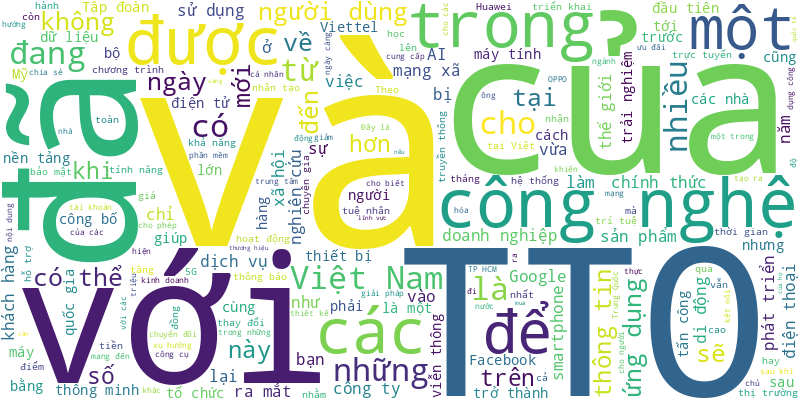
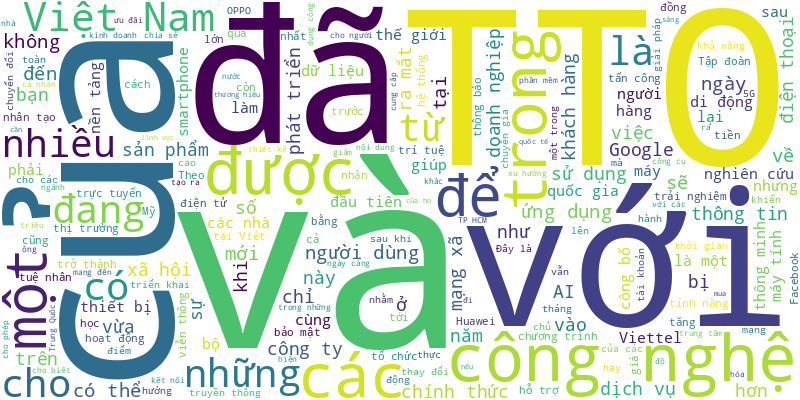
🍀 = 20%

diff --git a/README.md b/README.md
@@ -1,6 +1,19 @@
 # Tuoi Tre RSS 
 
 ## Giáo dục 
+- Để khắc phục tình trạng sinh viên sư phạm không được hưởng hoặc chậm được hưởng chính sách hỗ trợ, nghị định 60 đã điều chỉnh quy định phương thức hỗ trợ kinh phí cho sinh viên sư phạm.
+- Ngày 6-3, UBND quận 1, TP.HCM đã tổ chức lễ công bố và trao quyết định bổ nhiệm cán bộ giữ chức vụ trưởng Phòng Giáo dục và Đào tạo.
+- Ngày 6-3, chủ tịch UBND huyện Mường Lát đã chỉ đạo các phòng chức năng, ban giám hiệu nhà trường rà soát để giải quyết chế độ phụ cấp độc hại cho viên chức thư viện - thiết bị, thiết bị - thí nghiệm.
+- Để đảm bảo an ninh, tạo điều kiện tham gia trong dịp Lễ hội cà phê Buôn Ma Thuột lần thứ 9 năm 2025, học sinh các cấp trên địa bàn TP Buôn Ma Thuột (Đắk Lắk) sẽ được nghỉ học ngày 10-3.
+- Dù đã có biển cấm đỗ xe nhưng nhiều ô tô vẫn đỗ tràn ra lòng đường, vỉa hè, trước cổng trường học gây ách tắc giao thông.
+- Bộ trưởng Bộ Giáo dục Mỹ Linda McMahon cho biết cần có sự chấp thuận của Quốc hội để đóng cửa cơ quan này.
+- Quy mô đào tạo chênh lệch không nhiều nhưng số lượng trường đại học tại Đồng bằng sông Hồng nhiều gần gấp đôi vùng Đông Nam Bộ.
+- Nhiều trường THPT có "đầu vào" không cao nhưng vẫn có học sinh đoạt giải tại kỳ thi học sinh giỏi ở TP.HCM năm học 2024-2025.
+- Theo kế hoạch đến năm 2030, TP.HCM sẽ đào tạo tối thiểu 9.000 nhân lực có trình độ từ đại học trở lên phục vụ cho ngành bán dẫn.
+- Trưởng đại diện UNICEF tại Việt Nam cho biết quyết định miễn toàn bộ học phí trường công lập là một bước tiến quan trọng.
+- Lãnh đạo Cục Quản lý chất lượng (Bộ Giáo dục và Đào tạo) nói rằng đề thi môn ngữ văn của kỳ thi tốt nghiệp THPT năm nay sẽ là dạng đề mở.
+- Hai ngày thứ bảy, chủ nhật cuối tuần này sẽ vô cùng sôi động với hai chương trình, ngày hội tư vấn tuyển sinh - hướng nghiệp.
+- Quy đổi điểm liệu có giúp các trường đại học tuyển đúng người cho đúng ngành, hay là mang tính hành chính tập trung nhiều hơn?
 - Trường ĐH Sư phạm kỹ thuật TP.HCM vừa tiếp nhận các tài sản công từ Trường cao đẳng Bình Phước để chuẩn bị thành lập phân hiệu tại địa phương này.
 - Bộ Giáo dục và Đào tạo vừa chính thức công bố thông tin nhân sự được điều động, bổ nhiệm sau khi bộ sắp xếp, tinh gọn từ 23 còn 18 đơn vị.
 - PGS.TS Nguyễn Thu Thủy, vụ trưởng Vụ Giáo dục đại học vừa được bộ trưởng Bộ Giáo dục và Đào tạo điều động, bổ nhiệm giữ chức cục trưởng Cục Hợp tác quốc tế.
@@ -989,21 +1002,75 @@
 - Từ năm 2025, học sinh có giấy chứng nhận nghề sẽ không được cộng 1 - 2 điểm khuyến khích khi xét tốt nghiệp THPT như những năm trước đây.
 - Hội đồng kỷ luật của huyện Minh Hóa đã đưa ra hình thức kỷ luật khiển trách với bà Đinh Thị Bùi Chung, hiệu trưởng Trường mầm non số 1 thị trấn Quy Đạt vì nhiều sai phạm về tài chính cũng như hành vi giật micro, chỉ mặt hội trưởng phụ huynh.
 - Quy định mới trong dự thảo thông tư tuyển sinh đại học 2025 sẽ giúp các trường đỡ sợ tuyển vượt chỉ tiêu.
-- Sinh viên của Trường đại học Mở TP.HCM đã đến UBND phường Cô Giang (quận 1, TP.HCM) học tập thực tế về quản lý công.
-- Trường phổ thông Thực hành Sư phạm thuộc Đại học Đồng Nai đang thiếu tiền trả lương cho giáo viên. Hoạt động giảng dạy của trường cầm chừng vì thiếu kinh phí.
-- Đó là khẳng định của ông Nguyễn Văn Hiếu, giám đốc Sở Giáo dục và Đào tạo TP.HCM, khi trao đổi với Tuổi Trẻ về định hướng phát triển mô hình trường tiên tiến, hội nhập quốc tế (sau đây gọi tắt là trường tiên tiến).
-- Những năm qua Hà Nội triển khai nhiều giải pháp nâng cao chất lượng nguồn nhân lực, trong đó có quyết tâm thực hiện ‘dạy thật, học thật, thi thật, nhân tài thật’.
-- Chiều 5-11, UBND huyện Tam Đường, tỉnh Lai Châu tổ chức họp báo đột xuất cung cấp thông tin về vụ việc trẻ nhập viện nghi ngộ độc do ăn nhầm thuốc diệt chuột tại Trường mầm non xã Giang Ma.
-- Hơn 300 phụ huynh ở Đồng Nai bị xử phạt hành chính do giao xe cho học sinh chưa đủ tuổi điều khiển.
-- Bắc Ninh thí điểm tổ chức dạy học 5 ngày trong tuần và nghỉ ngày thứ bảy, chủ nhật tại 4 trường trong tỉnh.
-- Xét về số lượng giáo sư, phó giáo sư được xét năm 2024, Trường đại học Cần Thơ đứng đầu cơ sở giáo dục, Hà Nội dẫn đầu theo tỉnh thành.
-- Phụ huynh nên cân nhắc khi giao xe máy cho con vì đó là sự an toàn, là tính mạng của con em mình.
-- Công an huyện Bố Trạch (Quảng Bình) đã vào cuộc xác minh những thông tin liên quan đến vụ hiệu trưởng kê khai giá bạt chống nắng cao gấp 3 giá khảo sát của phụ huynh tại Trường tiểu học Lý Trạch.
-- Sáng 5-11, trước tình hình mưa lớn gây ngập nhiều tuyến đường, nhiều trường ở Đà Nẵng thông báo cho học sinh nghỉ học. Một số bếp ăn bán trú của trường không kịp trở tay.
-- Hầu hết các trường tiên tiến, hội nhập quốc tế (gọi tắt là trường tiên tiến) đã và đang là những trường "hot" ở TP.HCM.
-- Chính phủ Công đảng Anh vừa công bố quyết định tăng học phí đại học tại Anh lần đầu tiên sau 8 năm, trong bối cảnh các trường đại học đang đối mặt với tình trạng thâm hụt tài chính nghiêm trọng.
 ![Edu](Edu.png)
 ## Thời Sự 
+- Các nhà đầu tư, tổ chức tài chính và đại diện các nhà máy điện gió, điện mặt trời đã gửi thư kiến nghị đến các cơ quan chức năng bày tỏ mong muốn không hồi tố, tính lại giá điện đối với các dự án đã vận hành thương mại.
+- Theo công an, Nguyễn Văn Tuấn (tức Tuấn "trắng", quê ở Hải Phòng, chủ trạm dừng nghỉ Ngọc Anh ở Phú Thọ) có nhiều hành vi vi phạm pháp luật gây bức xúc cho người dân.
+- Tổng Bí thư Tô Lâm và Phu nhân sẽ thăm cấp nhà nước Indonesia và thăm chính thức Singapore từ ngày 9-3, mở ra kỳ vọng về cột mốc mới trong quan hệ Việt Nam với hai nước này.
+- Tin tức đáng chú ý: Thủ tướng chỉ đạo 'nóng' về nhà ở xã hội; Yêu cầu cơ sở y tế tuân thủ quy định khám sức khỏe lái xe; TP.HCM vẫn thiếu nhà vệ sinh công cộng...
+- Nhóm bị cáo thừa nhận đã bàn nhau 'phá' cuộc đấu giá để giữ đất, làm một vụ 'chấn động địa cầu'.
+- Hôm nay 7-3, không khí lạnh tác động toàn bộ thời tiết Bắc Bộ khiến nhiệt độ giảm sâu kèm mưa, Nam Bộ ngày nắng.
+- Phó thủ tướng Trần Hồng Hà cho biết Festival nghề muối Việt Nam - Bạc Liêu năm 2025 là dấu mốc để Chính phủ, các bộ, ngành, địa phương và bà con diêm dân cùng nhau nỗ lực đưa hạt muối vươn xa trong thời gian tới.
+- Ngày 6-3, Cục An toàn thực phẩm (Bộ Y tế) có văn bản đề nghị các đơn vị xử lý nghiêm hoạt động quảng cáo vi phạm quy định của sản phẩm kẹo rau củ Kera.
+- Trong khuôn khổ chuyến thăm chính thức Việt Nam, ngày 6-3, Thủ tướng Kyrgyzstan Adylbek Kasymaliev đã có cuộc gặp với Tổng Bí thư Tô Lâm, Chủ tịch nước Lương Cường và Chủ tịch Quốc hội Trần Thanh Mẫn.
+- Giải trình, Trung tâm Công nghệ thông tin và Truyền thông nói không nhận được thông báo về việc đoàn lãnh đạo sở đến chúc mừng 8-3.
+- Nghị định quy định chi tiết thực hiện nghị quyết về cơ chế, chính sách đặc thù để tháo gỡ khó khăn, vướng mắc các dự án, đất đai trong kết luận thanh tra, kiểm tra, bản án tại TP.HCM, Đà Nẵng, Khánh Hòa dự kiến có hiệu lực từ ngày 1-4-2025.
+- Pháp hy vọng đẩy mạnh hợp tác quốc phòng với Việt Nam, để tương xứng với tình hữu nghị và quan hệ Đối tác chiến lược toàn diện giữa hai nước.
+- Sau thời gian chờ đợi, người dân TP.HCM sắp được đi trên những tuyến đường mới như đường nối Trần Quốc Hoàn - Cộng Hòa, đường Dương Quảng Hàm và các nhánh cầu thuộc vành đai 3 (sắp thông xe).
+- Dự án chế biến, sản xuất alumin tại Bình Phước có diện tích gần 300ha, với tổng vốn đầu tư 22.780 tỉ đồng.
+- Nhân viên nhà xe Hạnh Luyến tại Quảng Bình bị quay clip xô xát với khách nước ngoài, nguyên nhân được cho là tranh cãi chuyện dừng xe cho khách đi vệ sinh.
+- Đà Nẵng dừng xây dựng Trung tâm Chính trị - Hành chính quận Hải Châu, với vốn đầu tư hơn 420 tỉ đồng.
+- Liên tiếp triệt phá 3 chuyên án lớn trong thời gian ngắn vừa qua, mới đây Công an tỉnh Đắk Lắk đã nhận thư khen của Phó thủ tướng Bùi Thanh Sơn.
+- Nhiều xe dù vẫn đón, trả khách tấp nập giữa các tuyến đường nội và ngoại thành TP.HCM.
+- Là tuyến huyết mạch nối nút giao An Phú với trung tâm TP.HCM, nhưng gần 10 năm qua đường Lương Định Của vẫn chưa xong.
+- Để đảm bảo an ninh, tạo điều kiện tham gia trong dịp Lễ hội cà phê Buôn Ma Thuột lần thứ 9 năm 2025, học sinh các cấp trên địa bàn TP Buôn Ma Thuột (Đắk Lắk) sẽ được nghỉ học ngày 10-3.
+- Đắk Lắk đã thống nhất tạm dừng xây dựng 72 trụ sở làm việc chưa thực hiện để sắp xếp, tinh gọn bộ máy.
+- Công an tỉnh Quảng Nam thông báo 17 địa điểm thu nhận hồ sơ cấp căn cước và tài khoản định danh điện tử mức 2.
+- Theo quy định tại nghị định 45/2025 của Chính phủ có hiệu lực từ 1-3, có 4 sở được tổ chức đặc thù ở các tỉnh, thành.
+- Công an TP.HCM đã phân cấp nhiều nhóm thủ tục về công an cấp xã, tăng thêm nhiều điểm giải quyết thủ tục cho người dân.
+- Giữa ban ngày, một nhóm 5 người mang theo hung khí (trong đó có một vật nghi súng) lao vào nhà dân đánh người.
+- Chủ tịch Hà Nội Trần Sỹ Thanh chỉ đạo như vậy trong công điện gửi lãnh đạo các quận, huyện, thị xã và các sở ngành về việc thực hiện các nhiệm vụ, giải pháp theo kết luận 127 của Bộ Chính trị.
+- Công ty Cấp nước Đồng Nai cho rằng việc khai thác vượt lưu lượng chỉ rơi vào một số ngày cao điểm nắng nóng.
+- Chiều 6-3, Chủ tịch UBND TP.HCM Nguyễn Văn Được chủ trì hội nghị gặp gỡ cộng đồng doanh nghiệp trên địa bàn TP.HCM.
+- Ngày 6-3, Hà Tĩnh đồng loạt triển khai, tổ chức các hoạt động chuyển đổi số hưởng ứng phong trào "Bình dân học vụ số" trên phạm vi toàn tỉnh.
+- Nhiều nhà mua hàng quốc tế đã đổ về Hội chợ xuất khẩu đồ gỗ và nội thất - Hawa Expo 2025 đang diễn ra tại TP.HCM.
+- Nhân kỷ niệm 50 năm Ngày Giải phóng miền Nam, thống nhất đất nước, TP.HCM sẽ bắn pháo hoa tại 7 điểm chính.
+- Công an An Giang bắt giữ thêm một đồng phạm và tiếp tục truy xét các đồng phạm, đàn em của đại ca giang hồ mang nhiều tiền án Hiếu ‘Xì po’.
+- Phó chủ tịch Quốc hội Lê Minh Hoan đã viết thư "tâm tình" với các nghệ nhân có nghề làm muối, bà con làm muối.
+- Hòa giải giữa chủ nhân tờ vé số trúng giải đặc biệt 2 tỉ đồng bị rách một góc và công ty xổ số ở Huế đã diễn ra mà không đạt được sự thống nhất.
+- Ngày 6-3, Phó thủ tướng Trần Hồng Hà kiểm tra tiến độ các dự án đường cao tốc tại khu vực Đồng bằng sông Cửu Long.
+- Trưởng Ban Nội chính Trung ương Phan Đình Trạc đề nghị sớm xây dựng hành lang pháp lý cho các vấn đề mới, phi truyền thống.
+- Việc cắm mốc, giao ranh của dự án cao tốc TP.HCM - Mộc Bài được thực hiện đồng loạt tại 21 xã, phường thuộc 2 địa phương TP.HCM và tỉnh Tây Ninh.
+- Lãnh đạo Sở Khoa học - Công nghệ Quảng Trị có văn bản gửi quyền chủ tịch UBND tỉnh đề nghị dừng bổ nhiệm cấp dưới vì vi phạm giờ làm việc.
+- Tại hội đàm ngày 6-3, hai Thủ tướng Việt Nam và Kyrgyzstan khẳng định sự coi trọng của mỗi bên dành cho quan hệ song phương.
+- Trên nhiều đường, hẻm ở TP.HCM, tình trạng người dân đặt chậu cây xanh, vật dụng chiếm dụng lòng đường, vỉa hè diễn ra phổ biến.
+- Hồ Hoàn Kiếm là khu vực rất đặc biệt, là một di sản văn hóa của thủ đô và của cả nước vì chứa đựng ý nghĩa lịch sử.
+- Lãnh đạo UBND tỉnh Khánh Hòa khẳng định việc đề xuất điều chỉnh quy hoạch tỉnh không ảnh hưởng đến định hướng sáp nhập đơn vị cấp tỉnh.
+- Ngày 6-3, Phòng cảnh sát giao thông Công an Đà Nẵng hướng dẫn cụ thể đến người dân khi thực hiện thủ tục cấp đổi, cấp lại giấy phép lái xe.
+- Sau phản ánh việc nhiều người đi xe máy bị té ngã tại đường ray xe lửa ở phường Dĩ An (Bình Dương), địa phương đã cắm biển cảnh báo.
+- Hà Giang đề xuất Thủ tướng xem xét cho chủ trương đầu tư dự án cao tốc Tuyên Quang - Hà Giang (giai đoạn 2) đến cửa khẩu quốc tế Thanh Thủy.
+- Học sinh lớp 2 tại điểm trường Trà Dơn (Quảng Nam) qua đời do bị sốt cao nhiều ngày nhưng gia đình chỉ cúng bái, không chuyển trạm y tế.
+- Công an TP.HCM đã triệt phá và giải cứu thành công một người Trung Quốc bị đồng hương bắt cóc tống tiền.
+- UBND tỉnh Phú Yên đã có văn bản yêu cầu các địa phương rà soát, tạm dừng việc triển khai các công trình, dự án.
+- Các bác sĩ Bệnh viện Lê Văn Việt (Thủ Đức) vừa cấp cứu kịp thời cho một sản phụ 32 tuổi, chuyển dạ sớm, đẻ rơi con tại nhà.
+- Xe tải chở dứa chạy trên quốc lộ 61C bất ngờ mất lái tông vào tiệm sửa xe ven đường, 6 người thoát chết trong gang tấc.
+- Lái xe máy chạy tốc độ cao, người chạy xe đã lao vào tường rào UBND huyện Thọ Xuân (Thanh Hóa), 2 thanh niên chết tại chỗ, một người bị thương.
+- Sáng 6-3, Bộ Tư pháp phối hợp Học viện Chính trị quốc gia Hồ Chí Minh tổ chức hội thảo khoa học cấp quốc gia.
+- TP.HCM sẽ tổ chức hội nghị quán triệt trong hệ thống chính trị về việc sắp xếp, tổ chức bộ máy, trong đó có cả việc tổ chức lại bộ máy cấp huyện, xã.
+- Bị "réo" tên trên mạng, giám đốc doanh nghiệp ở huyện Ea H'leo (Đắk Lắk), người lấy 2 con cá lăng do xe khách đánh rơi trên đường, đã đền tiền.
+- Cục Quản lý, giám sát bảo hiểm (Bộ Tài chính) có kết luận thanh tra với hai công ty bảo hiểm nhân thọ gồm Cathay Việt Nam và Mirae Asset Prévoir.
+- Hội nghị bàn giao chức vụ bí thư Đảng ủy, chính ủy Quân khu 7 từ Trung tướng Trần Hoài Trung sang Thiếu tướng Trần Vinh Ngọc.
+- UBND TP.HCM vừa ban hành kế hoạch triển khai chương trình hành động của Thành ủy về thực hiện nghị quyết 57.
+- TP.HCM yêu cầu thực hiện nghiêm việc tạm dừng tuyển dụng công chức, lãnh đạo tại cấp huyện, cấp xã cho đến khi có chỉ đạo mới.
+- Thứ trưởng Bộ Nội vụ Trương Hải Long đã ký công văn gửi các tỉnh, thành ủy, UBND các tỉnh, thành phố.
+- Hà Nội dự kiến sẽ phá bỏ tòa nhà Hàm cá mập (phố Đinh Tiên Hoàng, Hoàn Kiếm) để cải tạo, nâng cấp quảng trường Đông Kinh - Nghĩa Thục.
+- "Dù chiến tranh thuế quan hay bất kỳ loại chiến tranh nào, chúng tôi sẵn sàng chiến đấu đến cùng" - Đại sứ quán Trung Quốc tại Mỹ nhấn mạnh.
+- Ngày 6-3, lực lượng chức năng đã giải quyết hiện trường vụ xe ben lật trên đường Lê Đức Anh (quốc lộ 1 cũ, thuộc quận Bình Tân, TP.HCM).
+- Các hiệp hội doanh nghiệp Việt Nam đã nhanh chóng lên phương án ứng phó chính sách thuế của ông Trump. Việt Nam bị ảnh hưởng ra sao?
+- Đại tướng Phan Văn Giang yêu cầu Binh đoàn 12 tăng cường lực lượng, trang thiết bị hiện đại, đẩy nhanh tiến độ thi công cầu Phong Châu.
+- Xe đầu kéo đang đi trên cao tốc Đà Nẵng - Quảng Ngãi khi đến địa phận Quảng Nam thì bất ngờ bị bốc cháy ngùn ngụt.
+- Sáng 6-3, Thủ tướng Phạm Minh Chính chủ trì lễ đón chính thức Thủ tướng Kyrgyzstan Adylbek Kasymaliev tại Phủ Chủ tịch.
+- Từ đêm nay 6-3, không khí lạnh tăng cường xuống, thời tiết miền Bắc rét đậm, có mưa, mưa rào rải rác và có nơi có dông.
 - Đi chợ mỗi tuần, tôi cảm nhận được túi tiền bị bào mòn khi giá bột mì, rượu, thịt và nhiều mặt hàng khác tăng lên.
 - Cách Tổng thống Mỹ dùng thuế quan đang khiến nhiều quốc gia, từ đối thủ cho tới bạn bè thân thiết của Washington, lo ngại.
 - Tin tức đáng chú ý: Khối ngoại rút gần 10.000 tỉ đồng khỏi chứng khoán Việt; TP.HCM siết kiểm tra an toàn giao thông thủy; Bệnh tay chân miệng vào mùa...
@@ -1120,7 +1187,7 @@
 - Hôm nay 4-3, thời tiết cả nước chủ đạo là nắng, Bắc Bộ sáng trời mù, lạnh nhưng ngày hửng nắng. Nam Bộ nắng nóng, oi bức.
 - Đến nay, Bộ đội biên phòng đã tái cơ cấu 226 tổ chức, trong đó giải thể 77 tổ chức. Việc điều chỉnh giúp giảm 2.330 biên chế, đổi tên và di dời 39 đồn biên phòng, đồng thời thành lập Trung tâm Huấn luyện Tây Bắc.
 - Thủ tướng Phạm Minh Chính vừa phê chuẩn kết quả bầu chức vụ chủ tịch UBND TP.HCM nhiệm kỳ 2021-2026 đối với ông Nguyễn Văn Được.
-- Thủ tướng Kyrgyzstan Adylbek Kasimalyev sẽ thăm chính thức Việt Nam trong hai ngày, đánh dấu chuyến đi đầu tiên của ông đến nước ta không lâu sau khi nhậm chức.
+- Thủ tướng Kyrgyzstan Adylbek Kasymaliev sẽ thăm chính thức Việt Nam trong hai ngày, đánh dấu chuyến đi đầu tiên của ông đến nước ta không lâu sau khi nhậm chức.
 - Lãnh đạo Thành ủy Nha Trang vừa chỉ đạo UBND TP này tạm dừng triển khai và báo cáo tỉnh Khánh Hòa, đề nghị ngừng thực hiện dự án xây dựng Trung tâm hành chính TP Nha Trang để tránh gây lãng phí.
 - Kết quả đo nồng độ cồn của anh H.V.T. là 0,877mg/l khí thở - gấp khoảng 2,2 lần mức xử lý vi phạm kịch khung quy định tại nghị định 168/2024.
 - Bộ Nội vụ vừa có công văn gửi UBND các tỉnh, thành phố về việc rà soát, báo cáo số lượng và chất lượng cán bộ, công chức cấp xã.
@@ -1937,73 +2004,6 @@
 - Tin tức đáng chú ý: Hôm nay Quốc hội quyết nhân sự, số lượng thành viên Chính phủ, Ủy ban Thường vụ Quốc hội; Cần thiết nghiên cứu khôi phục cầu Mã Đà kết nối Bình Phước với Đồng Nai...
 - Hôm nay 18-2, Bắc Bộ thời tiết vẫn còn rét, vùng núi rét đậm, rét hại. Nam Bộ ngày nắng, oi bức.
 - Hai dự án đô thị do liên danh Becamex-VSIP (Bình Dương) đề xuất đầu tư tại xã Ninh Xuân (thị xã Ninh Hòa) và xã Diên Thạnh (huyện Diên Khánh, Khánh Hòa) có quy mô 3.000ha, tổng vốn 29.800 tỉ đồng.
-- Công an tỉnh Ninh Bình vừa công bố các quyết định đối với 11 lãnh đạo cấp phòng tự nguyện xin nghỉ hưu trước thời hạn phục vụ công tác cán bộ.
-- Thủ tướng Phạm Minh Chính ký công điện số 15 ngày 17-2, về việc chủ động ứng phó đợt xâm nhập mặn cao điểm ở Đồng bằng sông Cửu Long và TP.HCM.
-- Hà Nội thống nhất phương án chủ trương đầu tư xây dựng tuyến đường kết nối sân bay Gia Bình (tỉnh Bắc Ninh) với Hà Nội. Đồng thời sẽ nghiên cứu xây tuyến metro từ Hà Nội nối với sân bay kể trên.
-- Trong số các cán bộ lãnh đạo, quản lý tại tỉnh Bình Định có đơn xin nghỉ hưu trước tuổi, có người còn 7 - 10 năm công tác.
-- Thông điệp được Phó thủ tướng, Bộ trưởng Ngoại giao Bùi Thanh Sơn truyền tải đến Ngoại trưởng Ukraine Andrii Sybiha trong cuộc điện đàm ngày 17-2.
-- Chiều 17-2, Thủ tướng Phạm Minh Chính đã trình Quốc hội về cơ cấu, số lượng thành viên Chính phủ nhiệm kỳ Quốc hội khóa XV.
-- Sở Giao thông vận tải Hà Tĩnh vừa ra thông báo để các cơ quan, cơ sở đào tạo, trung tâm sát hạch và người dân biết việc sở này dừng tổ chức sát hạch cấp giấy phép lái xe và một số nội dung liên quan đến công tác tiếp nhận, cấp đổi giấy phép lái xe.
-- Đoàn liên ngành UBND TP Buôn Ma Thuột (Đắk Lắk) kiểm tra các cơ sở nha khoa, thẩm mỹ viện hoạt động "chui".
-- Ghe chở gạch đang đậu cặp bờ sông, hai chiếc sà lan chở cát chạy ngang làm chìm ghe chở gạch. Hai người thoát thân nhưng một phụ nữ tử vong.
-- Để đạt mức sống cơ bản, một gia đình 4 người ở TP.HCM có rất nhiều khoản chi, thu nhập 20-21 triệu/tháng có đủ?
-- Đó là thông tin từ lãnh đạo Sở Giao thông vận tải TP.HCM vào chiều 17-2, về việc giải quyết hàng chục ngàn giấy phép lái xe 'tồn'.
-- Bí thư Tỉnh ủy Cà Mau Nguyễn Hồ Hải đề xuất hỗ trợ kết nối xuất khẩu nông thủy sản Cà Mau đến nhà nhập khẩu Singapore tại buổi gặp gỡ, làm việc với đoàn công tác của Đại sứ quán Singapore tại Hà Nội.
-- Một bệnh nhân mắc phải hội chứng Brugada type hôn mê sâu, ngưng tim được các bác sĩ cứu sống thành công.
-- Chủ tịch huyện Tư Nghĩa, Quảng Ngãi cho biết đã chỉ đạo công an vào cuộc, vụ 'Sáng nhận tiền hỗ trợ cứu em bị chấn thương sọ não, tối bị lừa đảo lấy sạch'.
-- Ban Thường vụ Tỉnh ủy Quảng Nam có hàng loạt quyết định về công tác cán bộ, điều động, bổ nhiệm nhiều cán bộ lãnh đạo chủ chốt.
-- Đến hết năm 2024, Việt Nam đã có 559 công trình xanh tại nhiều tỉnh, thành trên cả nước với tổng diện tích sàn xây dựng 13,6 triệu m²...
-- Theo lãnh đạo Foxconn Việt Nam, ngay quý 1-2025, công ty cần tuyển hơn 22.000 lao động. Còn với Luxshare-ICT, doanh nghiệp cần 40.000 người trong năm nay.
-- Tòa án nhân dân quận 1 (TP.HCM) đã ứng dụng phiên tòa số hóa vào xét xử vụ tranh chấp liên quan công ty luật nước ngoài tại Việt Nam.
-- UBND TP.HCM vừa có văn bản gửi các sở ngành, yêu cầu tăng cường hiệu quả thực hiện nghị định 168 của Chính phủ.
-- Một chiếc áo vua (long bào) được cho là của vua triều Nguyễn lại sắp được đưa lên sàn đấu giá ở Pháp với giá khởi điểm khoảng 50.000 Euro.
-- HĐND TP.HCM sẽ họp kỳ họp thứ 21 (kỳ họp chuyên đề), khóa X vào ngày 20-2 để xem xét nhiều tờ trình và công tác nhân sự.
-- Nhiều người dân Hà Nội phải đi tới 3 lần, xếp hàng nhiều giờ đồng hồ mới có thể làm được thủ tục cấp đổi hạng giấy phép lái xe theo quy định mới của Luật Trật tự an toàn giao thông đường bộ 2024, có hiệu lực thi hành từ 1-1-2025.
-- Thủ tướng yêu cầu chủ tịch UBND tỉnh Tiền Giang và Bến Tre khẩn trương hoàn thiện thủ tục cấp phép khai thác mỏ cát để đảm bảo cung ứng đủ cho dự án đường vành đai 3 TP.HCM.
-- Hàng chục nhà dân sát dự án cao tốc Vạn Ninh - Cam Lộ đang thi công có nền nhà thấp hơn cao tốc 4 - 8m, khiến người dân lo lắng mất an toàn giao thông, bụi bặm, ồn ào… khi công trình vào khai thác.
-- Sở Nội vụ TP.HCM đề xuất thành lập hai sở là Sở Giao thông công chánh, Sở Dân tộc và Tôn giáo.
-- Theo kế hoạch UBND tỉnh Cà Mau, sau khi tinh gọn bộ máy Sở Lao động - Thương binh và Xã hội sáp nhập vào Sở Nội vụ, dự kiến trình cấp thẩm quyền chuyển 1 giám đốc là tỉnh ủy viên sang đơn vị khác.
-- Sau vụ nhiều du khách rơi xuống sông khi tham quan ở chợ nổi Cái Răng (Cần Thơ) ngày 16-2, chuyên gia kỹ năng sống và người làm trong lĩnh vực du lịch chia sẻ những kinh nghiệm để đảm bảo an toàn khi du lịch sông nước.
-- Món ăn có tính ấm nóng, rau xanh đậm hay các loại hạt, quả giúp bổ phế được xem là lựa chọn phù hợp trong thời điểm giao mùa, góp phần phòng tránh cúm hiệu quả.
-- Bà Trương Thị Bích Hạnh làm bí thư Thành ủy Dĩ An, là 'thành phố cửa ngõ' của Bình Dương giáp TP.HCM, Đồng Nai với nhiều vấn đề nóng, sau khi bí thư tiền nhiệm xin nghỉ hưu trước tuổi.
-- Cảnh sát giao thông sử dụng thiết bị nghiệp vụ để ghi hình xe vi phạm trên cao tốc Pháp Vân - Cầu Giẽ, sau đó in ảnh và cho tài xế xác nhận, sáng 17-2.
-- Một cụ ông bị tai nạn giao thông được đưa vào bệnh viện ở Nghệ An cấp cứu trong tình trạng nặng. Sau 15 ngày cụ nằm viện, bác sĩ vẫn chưa tìm được thân nhân cụ ông.
-- Chính phủ vừa có tờ trình đề nghị bổ sung 38.251 tỉ đồng vốn điều lệ cho công ty mẹ - Tổng công ty Đầu tư phát triển đường cao tốc Việt Nam (VEC).
-- Sau trận mưa kéo dài ngày 13-2, một nhánh của hầm chui Nguyễn Văn Linh (quận 7, TP.HCM) bị ngập. Nhằm ngăn chặn tình trạng tái diễn và đảm bảo giao thông không bị ảnh hưởng, Sở Giao thông vận tải TP.HCM đã yêu cầu chủ đầu tư khắc phục triệt để sự cố.
-- 3 hài cốt liệt sĩ được tìm thấy giữa rừng tràm của người dân, nằm sâu dưới đất 1m với nhiều xương và di vật.
-- Tại luật sửa đổi, bổ sung một số điều của Luật Tổ chức Quốc hội vừa được thông qua, Quốc hội đã chốt đổi tên kỳ họp bất thường thành kỳ họp không thường kỳ. Đồng thời, bổ sung quy định liên quan việc tạm đình chỉ hoặc mất quyền đại biểu Quốc hội
-- Công an thị xã Tịnh Biên, tỉnh An Giang đã tạm giữ hình sự 9 người trong băng nhóm dàn cảnh cướp tài sản và đánh khách hành hương trong chùa Kim Tiên.
-- Bộ Tài chính cho biết trong năm tài chính 2023 có gần 16.300 doanh nghiệp FDI báo lỗ, con số thua lỗ lên tới hơn 217.400 tỉ đồng, tăng 21,2% so với năm trước.
-- Trong số 25 lãnh đạo cấp phòng, cấp huyện thuộc lực lượng Công an tỉnh Bến Tre nghỉ hưu trước tuổi, có những trường hợp còn thời gian công tác gần 5 năm.
-- Bộ trưởng Nguyễn Mạnh Hùng cho hay hiện nay chi cho nghiên cứu phát triển của Việt Nam đang là 0,5% GDP, mới được 1/4 so với mục tiêu 2%.
-- Điểm đặc biệt của các dự án BOT cửa ngõ là phương án thu phí chỉ áp dụng cho phần đường chính - làn trên cao (làn đường đi nhanh), không thu phí đường song hành.
-- TP.HCM đang chuẩn bị triển khai thực hiện mục tiêu 355km metro và mô hình TOD (phát triển đô thị theo định hướng phát triển giao thông công cộng).
-- Chủ tịch Petrovietnam mong muốn cần thiết ghi tên chủ đầu tư và có các cơ chế đặc thù rõ ràng trong chính sách phát triển điện hạt nhân, song bộ trưởng Công Thương cho hay sẽ ghi tên chủ đầu tư chung chung.
-- Dù đã 2 tuần trôi qua kể từ khi báo chí phản ánh việc "núi" bánh kẹo được đổ trộm tại bãi rác thuộc Khu công nghiệp La Phù (xã La Phù, huyện Hoài Đức, Hà Nội), nhưng hiện tại khu vực trên bánh kẹo vẫn chất thành từng đống lớn.
-- Bộ Xây dựng vừa yêu cầu thanh tra bộ phối hợp với địa phương tăng cường thanh tra, kiểm tra những dự án bất động sản tăng giá bất thường và xử lý nghiêm vi phạm về nhà ở xã hội.
-- Sáng nhận tiền từ nhà hảo tâm hỗ trợ lo viện phí cho em bị chấn thương sọ não, tối bị lừa đảo mất sạch. Người anh nghèo rớt mồng tơi, nhìn em hôn mê tại Bệnh viện Đà Nẵng mà chẳng biết lấy tiền đâu cứu em.
-- Hai thanh niên hành hung người sau va chạm giao thông ở TP Buôn Ma Thuột (Đắk Lắk) đã bỏ trốn, hiện không có mặt tại địa phương.
-- Hai ông cháu ở TP Thái Nguyên (tỉnh Thái Nguyên) đang ngồi xem tivi trong nhà, bất ngờ chiếc ô tô do một nữ tài xế điều khiển bị mất lái tông sập cửa nhà, suýt cuốn họ vào gầm.
-- Chính phủ vừa ban hành nghị quyết đồng ý cơ chế, giải pháp xử lý khó khăn, vướng mắc tại dự án đầu tư xây dựng cơ sở 2 Bệnh viện Bạch Mai và Bệnh viện Hữu nghị Việt Đức theo đề nghị của Bộ Y tế.
-- Bộ Chính trị điều động, phân công, bổ nhiệm Bộ trưởng Bộ Khoa học và Công nghệ Huỳnh Thành Đạt chuyển sang làm phó trưởng Ban Tuyên giáo và Dân vận Trung ương.
-- Việc đưa cống âu Rạch Mọp (Sóc Trăng) vào vận hành góp phần phục vụ sản xuất và kiểm soát nguồn nước bờ Nam sông Hậu. Đây là công trình cống thủy lợi lớn nhất Sóc Trăng.
-- Người dân có thể nộp hồ sơ đổi bằng lái tại xã, phường, thị trấn và có thể đăng ký tham gia sát hạch tại bất cứ địa phương nào sau khi tốt nghiệp các khóa đào tạo lái xe, không phụ thuộc vào địa giới hành chính và nơi đào tạo như hiện nay.
-- Sáng 17-2, hàng chục công dân đến Trung tâm phục vụ hành chính công tỉnh Thanh Hóa nộp hồ sơ cấp đổi, cấp lại giấy phép lái xe bình thường.
-- Được khen thưởng về hành động dũng cảm cứu người bị đuối nước tại khu vực cầu Lớn (xã Xuân Thới Sơn, huyện Hóc Môn, TP.HCM), anh Trần Phong Sương chia sẻ: “Trong lúc sinh tử người ta kêu cứu, khả năng bao nhiêu mình giúp bấy nhiêu”.
-- Ngày 17-2, Quân khu 7 tổ chức gặp mặt đại biểu cán bộ cao cấp quân đội nghỉ hưu, nghỉ công tác trên địa bàn quân khu đầu xuân Ất Tỵ năm 2025.
-- Công an đang tổ chức xác minh việc một bé gái 9 tháng tuổi nghi bị bạo hành khi gửi ở nhà trẻ tư nhân ở TP Buôn Ma Thuột (Đắk Lắk).
-- Đại tá Nguyễn Quang Vinh, phó cục trưởng, thư ký lãnh đạo Bộ Công an, vừa được điều động, bổ nhiệm giữ chức vụ giám đốc Công an tỉnh Bắc Giang.
-- Đại biểu Trịnh Xuân An đề nghị cần có cơ chế miễn trách nhiệm hình sự với cá nhân hoạt động nghiên cứu khoa học nếu đáp ứng được các tiêu chí khách quan về quy trình thủ tục.
-- Có khoảng 20 du khách lên cầu tạm để đi lên sà lan tại chợ nổi Cái Răng mua sắm. Mối hàn cầu tạm bị hở làm cầu bị nghiêng khiến nhiều người rơi xuống sông.
-- Sau khi bắt tạm giam chủ tịch UBND huyện Long Thành, Công an Đồng Nai tiếp tục triệp tập nhiều cán bộ thẩm định hồ sơ đất đai để điều tra mở rộng vụ đền bù, hỗ trợ, tái định cư dự án sân bay Long Thành.
-- 46 năm đã qua (17-2-1979 - 17-2-2025), cuộc chiến đấu trên toàn tuyến biên giới phía Bắc đã khẳng định sự thật lịch sử và tính chính nghĩa của dân tộc Việt Nam.
-- Kể từ ngày 19-2, việc cấp giấy phép lái xe sẽ được chuyển giao từ ngành giao thông vận tải sang ngành công an.
-- Tin tức đáng chú ý: Giảm đến 15% giá vé tàu mua sớm; Đề xuất miễn thuế nhập khẩu cho đơn hàng online từ 2 triệu trở xuống; Tổng giám đốc một công ty chứng khoán đột ngột từ chức...
-- Hôm nay 17-2, không khí lạnh đã lan tới các tỉnh Bắc Trung Bộ rồi lệch ra biển. Nam Bộ thời tiết ngày nắng, chiều tối vài nơi mưa rào.
-- Quá thời hạn yêu cầu của lãnh đạo UBND tỉnh Nghệ An nhưng người dân vẫn chưa nhận được kết quả xử lý nhà đất đã mua từ hơn 30 năm trước.
-- Bộ trưởng Bộ Nội vụ Phạm Thị Thanh Trà yêu cầu bảo vệ kịp thời người phát hiện, phản ánh, tố cáo, báo tin, cung cấp thông tin các hành vi vi phạm, lạm quyền, tham nhũng, tiêu cực.
-- Thay mặt Ban Chấp hành Trung ương, Tổng Bí thư Tô Lâm mới đây đã ký quy định số 232 quy định thi hành Điều lệ Đảng.
-- Tối 16-2, Tổng liên đoàn Lao động Việt Nam tổ chức hội nghị toàn quốc biểu dương 95 công nhân lao động tiêu biểu là đảng viên Đảng Cộng sản Việt Nam lần thứ I, năm 2025.
 ![New](News.png)
 ## Nhịp sống số 
 - Chuyên gia an ninh mạng Ngô Minh Hiếu (Hiếu PC) vừa đăng đàn cảnh báo thông tin sai sự thật mà chính anh là nạn nhân.
